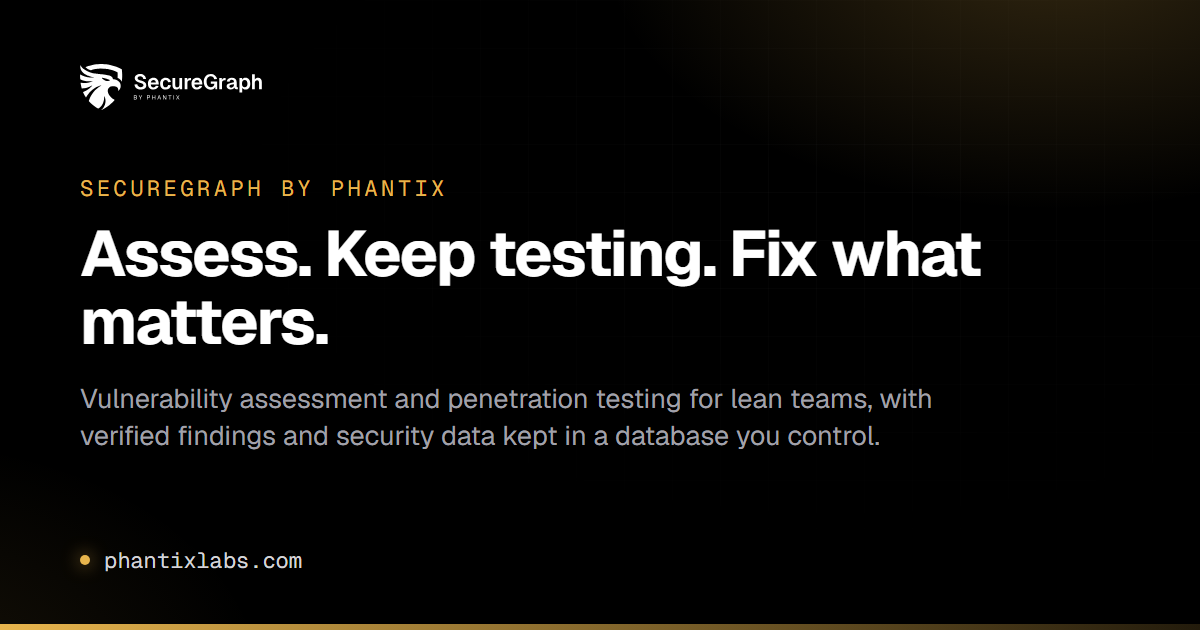
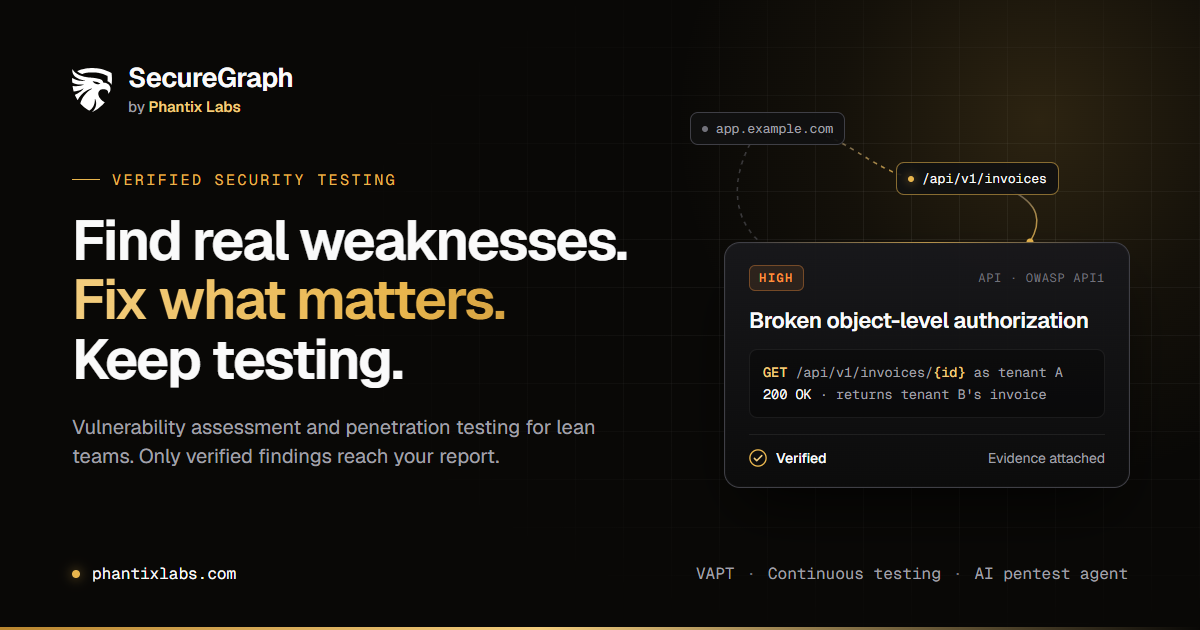
feat(brand): redesign the share card
The 1200x630 card still carried the old line ("Assess. Keep testing. Fix
what matters.") and no picture of the product. The new card leads with
the hero's three lines and the SecureGraph by Phantix Labs lockup, and
shows what the product hands over: a verified BOLA finding on an API
path, with the request and response that prove it, at the end of a
small attack path.

It is built from design/og/og-image.html with the site's Geist fonts and
dark-theme tokens, rendered by headless Chrome (command in the file), so
the next change is an edit and a re-render rather than a redraw.

og:image and twitter:image gain ?v=2 so LinkedIn, X and WhatsApp fetch
the new card instead of their cached copy; the alt text now describes it.

diff --git a/dist/index.html b/dist/index.html
@@ -49,15 +49,16 @@
     <meta property="og:url" content="https://phantixlabs.com/" />
     <meta property="og:title" content="SecureGraph: Assess. Keep testing. Fix what matters." />
     <meta property="og:description" content="Vulnerability assessment and penetration testing for lean teams. Get continuous security, verified findings, and remediation guidance. Your security data stays in a database you control." />
-    <meta property="og:image" content="https://phantixlabs.com/og-image.png" />
-    <meta property="og:image:alt" content="SecureGraph: Assess. Keep testing. Fix what matters." />
+    <meta property="og:image" content="https://phantixlabs.com/og-image.png?v=2" />
+    <meta property="og:image:alt" content="SecureGraph by Phantix Labs: Find real weaknesses. Fix what matters. Keep testing. A verified API finding with its evidence attached." />
     <meta property="og:locale" content="en_US" />
 
     <!-- Twitter -->
     <meta name="twitter:card" content="summary_large_image" />
     <meta name="twitter:title" content="SecureGraph: Assess. Keep testing. Fix what matters." />
     <meta name="twitter:description" content="Vulnerability assessment and penetration testing for lean teams. Get continuous security and verified findings." />
-    <meta name="twitter:image" content="https://phantixlabs.com/og-image.png" />
+    <meta name="twitter:image" content="https://phantixlabs.com/og-image.png?v=2" />
+    <meta name="twitter:image:alt" content="SecureGraph by Phantix Labs: Find real weaknesses. Fix what matters. Keep testing. A verified API finding with its evidence attached." />
 
     <!-- Structured data: organization + site + product -->
     <script type="application/ld+json">
@@ -144,7 +145,7 @@
          of type text/plain is neither fetched nor run. src/lib/pagesense.ts starts
          it on consent. It is in the page so PageSense can verify the snippet. -->
     <script type="text/plain" id="zoho-pagesense" data-consent="marketing" src="https://cdn.pagesense.io/js/942607551/d62bd6ac25c94fd6b41c27af8080279f.js"></script>
-    <script type="module" crossorigin src="/assets/index-BfUSoZTg.js"></script>
+    <script type="module" crossorigin src="/assets/index-DO4_rbJq.js"></script>
     <link rel="stylesheet" crossorigin href="/assets/index-mlEVPhA7.css">
     <script type="application/ld+json" id="faq-page-schema">{"@context":"https://schema.org","@type":"FAQPage","mainEntity":[{"@type":"Question","name":"What is SecureGraph?","acceptedAnswer":{"@type":"Answer","text":"SecureGraph helps small teams find real weaknesses, keep testing, and fix what matters. The front door is vulnerability assessment and penetration testing (VAPT). Growth adds continuous security, remediation guidance, and reports that use only verified findings. Asset inventory, risk, and optional compliance or SOC depth sit on the same platform. You get one subscription and you can leave modules off. Your security records live in a database you control. We never treat your production business systems as a playground. We never invent vulnerabilities. AI explains what the engines already found."}},{"@type":"Question","name":"Where does my security data live?","acceptedAnswer":{"@type":"Answer","text":"Security evidence lives in a dedicated PostgreSQL database that you provision and control. The evidence includes assets, tests, findings, and risks. You choose the host. SecureGraph connects to that store and writes into it. We do not park your vulnerability history in a shared multi-tenant lake next to another organization’s data. We do not read your ERP, CRM, or customer production data. On the platform side we keep what runs the organization: identity, roles, billing, and configuration. If you leave, you keep your security data. It was never ours to hold hostage."}},{"@type":"Question","name":"Is the Free plan really free?","acceptedAnswer":{"@type":"Answer","text":"Yes. You do not need a card, and there is no countdown trial. Free is the entry surface. Create your organization, use dual control and MFA, inventory assets within fair-use caps, run light hygiene checks, and export basic formats. You get a one-time 500 AI credits, then free open-source models if enabled. Full VAPT campaigns, continuous testing, deep cloud and SOC packs, and board PDF packages are on Starter and Growth. Free helps you know your surface before you spend. It does not replace a paid assessment plan."}},{"@type":"Question","name":"Do I need a demo before I can start?","acceptedAnswer":{"@type":"Answer","text":"No. Create a free account and use the product straight away. You do not need a call or a card. Book a demo if you want us to show how SecureGraph fits your environment, your team, or your procurement process. Larger organizations that need SSO, custom contracts, SLAs, or a private deployment can talk to sales from the Enterprise plan."}},{"@type":"Question","name":"How is this different from buying a scanner?","acceptedAnswer":{"@type":"Answer","text":"A scanner puts issues on your desk. You still need someone to retest, prioritize, fix, and explain them to leadership. SecureGraph starts with scoped VAPT. It verifies what is real, guides remediation, and can keep testing continuously on Growth. All of this occurs in one place. You can add compliance mapping and SOC depth when you need them. They are not the reason to buy. The other difference is ownership. Your security database stays yours."}},{"@type":"Question","name":"Will AI invent fake vulnerabilities?","acceptedAnswer":{"@type":"Answer","text":"No. Agents can only work with what the engines already stored. They help write findings, suggest fixes, and plan investigations. They do not create findings, change scores, or bypass dual control. Reports emphasize verified material. Unverified noise stays quarantined. Your board should only see what you can stand behind."}},{"@type":"Question","name":"Can we use this without a full security team?","acceptedAnswer":{"@type":"Answer","text":"Yes. SecureGraph is built for the one-person security team. This person is often the engineer or operations lead who also owns security. It inventories assets continuously, separates verified issues from noise, tracks fixes, and produces board-ready reports. You do not write them from scratch at midnight."}},{"@type":"Question","name":"Do you support Nigerian companies and NDPA?","acceptedAnswer":{"@type":"Answer","text":"Yes. Privacy is a foundation. Security data stays in infrastructure that you choose. AI paths prefer controlled models, and we audit all actions. We help you prepare evidence for privacy and security conversations. Formal certification such as ISO or SOC 2 remains your responsibility. We are the tool that helps you build the case. We are not the auditor."}},{"@type":"Question","name":"What if I need a full human penetration test?","acceptedAnswer":{"@type":"Answer","text":"Engagements put SecureGraph practitioners on the same platform that you use each day. They scope, run, and report inside your environment, so findings follow the same verification path as your internal assessments. Ask us about full VAPT, complex application testing, mobile dynamic testing, and guided board reporting."}},{"@type":"Question","name":"How do I get started?","acceptedAnswer":{"@type":"Answer","text":"Click Get started free, create your organization, and connect a security database. You can bring your own Postgres, or ask about hosted options when available. Add a small set of assets and run your first assessment on Free. Move to Starter when you need full VAPT and verified reports, and to Growth when you need continuous testing. You do not need a card to begin."}},{"@type":"Question","name":"Can I connect SecureGraph to GitHub CI/CD?","acceptedAnswer":{"@type":"Answer","text":"Yes. Install the GitHub App on the repositories you want reviewed, or connect GitLab or Gitea, and SecureGraph reviews pull requests and new commits as they arrive. Review runs against the changed files, so the findings land where your team already looks: the pull request. You can also report on a branch (Continuous PR) and, where it is switched on, have SecureGraph open a fix PR rather than a ticket. Provider webhooks and CI webhooks from other pipelines are supported too."}},{"@type":"Question","name":"Does a finding tell me which file and line the problem is on?","acceptedAnswer":{"@type":"Answer","text":"For code findings, yes. Each result carries the repository path, the line number and the rule that fired, so you can open the file at the exact place. Findings from network and web testing point at the asset and the request/response instead, because there is no source line to quote. The location is stored on the finding, so it survives into the report and into the ticket your team works from."}},{"@type":"Question","name":"Can it scan compiled binaries?","acceptedAnswer":{"@type":"Answer","text":"Not native binaries. SecureGraph does not decompile or fuzz ELF or PE executables today. It does analyse source code, dependencies and container image contents, mobile packages (.apk and .ipa) statically, and infrastructure-as-code. If what you ship is a binary, scan the source and the dependency manifest before the build — that is where the fixable issues are, and where a fix can actually be merged."}},{"@type":"Question","name":"Can I scan a repository that contains two or three languages?","acceptedAnswer":{"@type":"Answer","text":"Yes, and you do not configure it per language. SecureGraph works out which languages are present from the files it is given and runs the right analyser for each: Python with Bandit, Go with gosec, JavaScript and TypeScript with ESLint plus the general engine, PHP with PHPStan and Psalm when the project has Composer, C# and legacy .NET including .aspx with DevSkim, and OpenGrep across all of them. A monorepo is one scan, not three, and no file is analysed twice."}},{"@type":"Question","name":"Can I export a report as CSV or PDF?","acceptedAnswer":{"@type":"Answer","text":"Yes, both are built in. One report can be produced as PDF, DOCX, XLSX, HTML, Markdown, JSON or CSV from the same findings — no conversion step, and every plan includes the formats. You choose the format on the report itself."}}]}</script>
   </head>
@@ -155,7 +156,7 @@
     <p>SecureGraph does vulnerability assessment and penetration testing for lean teams. It keeps the tests on a schedule and helps you fix what matters and show the result. The findings you work from are verified. Your security data stays in a database you control.</p>
     <section><h2>Frequently asked questions</h2><h3>What is SecureGraph?</h3><p>SecureGraph helps small teams find real weaknesses, keep testing, and fix what matters.</p><p>The front door is vulnerability assessment and penetration testing (VAPT). Growth adds continuous security, remediation guidance, and reports that use only verified findings. Asset inventory, risk, and optional compliance or SOC depth sit on the same platform. You get one subscription and you can leave modules off.</p><p>Your security records live in a database you control. We never treat your production business systems as a playground. We never invent vulnerabilities. AI explains what the engines already found.</p><h3>Where does my security data live?</h3><p>Security evidence lives in a dedicated PostgreSQL database that you provision and control. The evidence includes assets, tests, findings, and risks. You choose the host. SecureGraph connects to that store and writes into it.</p><p>We do not park your vulnerability history in a shared multi-tenant lake next to another organization’s data. We do not read your ERP, CRM, or customer production data. On the platform side we keep what runs the organization: identity, roles, billing, and configuration.</p><p>If you leave, you keep your security data. It was never ours to hold hostage.</p><h3>Is the Free plan really free?</h3><p>Yes. You do not need a card, and there is no countdown trial.</p><p>Free is the entry surface. Create your organization, use dual control and MFA, inventory assets within fair-use caps, run light hygiene checks, and export basic formats. You get a one-time 500 AI credits, then free open-source models if enabled.</p><p>Full VAPT campaigns, continuous testing, deep cloud and SOC packs, and board PDF packages are on Starter and Growth. Free helps you know your surface before you spend. It does not replace a paid assessment plan.</p><h3>Do I need a demo before I can start?</h3><p>No. Create a free account and use the product straight away. You do not need a call or a card.</p><p>Book a demo if you want us to show how SecureGraph fits your environment, your team, or your procurement process. Larger organizations that need SSO, custom contracts, SLAs, or a private deployment can talk to sales from the Enterprise plan.</p><h3>How is this different from buying a scanner?</h3><p>A scanner puts issues on your desk. You still need someone to retest, prioritize, fix, and explain them to leadership.</p><p>SecureGraph starts with scoped VAPT. It verifies what is real, guides remediation, and can keep testing continuously on Growth. All of this occurs in one place. You can add compliance mapping and SOC depth when you need them. They are not the reason to buy.</p><p>The other difference is ownership. Your security database stays yours.</p><h3>Will AI invent fake vulnerabilities?</h3><p>No. Agents can only work with what the engines already stored. They help write findings, suggest fixes, and plan investigations. They do not create findings, change scores, or bypass dual control.</p><p>Reports emphasize verified material. Unverified noise stays quarantined. Your board should only see what you can stand behind.</p><h3>Can we use this without a full security team?</h3><p>Yes. SecureGraph is built for the one-person security team. This person is often the engineer or operations lead who also owns security.</p><p>It inventories assets continuously, separates verified issues from noise, tracks fixes, and produces board-ready reports. You do not write them from scratch at midnight.</p><h3>Do you support Nigerian companies and NDPA?</h3><p>Yes. Privacy is a foundation. Security data stays in infrastructure that you choose. AI paths prefer controlled models, and we audit all actions.</p><p>We help you prepare evidence for privacy and security conversations. Formal certification such as ISO or SOC 2 remains your responsibility. We are the tool that helps you build the case. We are not the auditor.</p><h3>What if I need a full human penetration test?</h3><p>Engagements put SecureGraph practitioners on the same platform that you use each day. They scope, run, and report inside your environment, so findings follow the same verification path as your internal assessments.</p><p>Ask us about full VAPT, complex application testing, mobile dynamic testing, and guided board reporting.</p><h3>How do I get started?</h3><p>Click Get started free, create your organization, and connect a security database. You can bring your own Postgres, or ask about hosted options when available.</p><p>Add a small set of assets and run your first assessment on Free. Move to Starter when you need full VAPT and verified reports, and to Growth when you need continuous testing. You do not need a card to begin.</p><h3>Can I connect SecureGraph to GitHub CI/CD?</h3><p>Yes. Install the GitHub App on the repositories you want reviewed, or connect GitLab or Gitea, and SecureGraph reviews pull requests and new commits as they arrive. Review runs against the changed files, so the findings land where your team already looks: the pull request. You can also report on a branch (Continuous PR) and, where it is switched on, have SecureGraph open a fix PR rather than a ticket. Provider webhooks and CI webhooks from other pipelines are supported too.</p><h3>Does a finding tell me which file and line the problem is on?</h3><p>For code findings, yes. Each result carries the repository path, the line number and the rule that fired, so you can open the file at the exact place. Findings from network and web testing point at the asset and the request/response instead, because there is no source line to quote. The location is stored on the finding, so it survives into the report and into the ticket your team works from.</p><h3>Can it scan compiled binaries?</h3><p>Not native binaries. SecureGraph does not decompile or fuzz ELF or PE executables today. It does analyse source code, dependencies and container image contents, mobile packages (.apk and .ipa) statically, and infrastructure-as-code. If what you ship is a binary, scan the source and the dependency manifest before the build — that is where the fixable issues are, and where a fix can actually be merged.</p><h3>Can I scan a repository that contains two or three languages?</h3><p>Yes, and you do not configure it per language. SecureGraph works out which languages are present from the files it is given and runs the right analyser for each: Python with Bandit, Go with gosec, JavaScript and TypeScript with ESLint plus the general engine, PHP with PHPStan and Psalm when the project has Composer, C# and legacy .NET including .aspx with DevSkim, and OpenGrep across all of them. A monorepo is one scan, not three, and no file is analysed twice.</p><h3>Can I export a report as CSV or PDF?</h3><p>Yes, both are built in. One report can be produced as PDF, DOCX, XLSX, HTML, Markdown, JSON or CSV from the same findings — no conversion step, and every plan includes the formats. You choose the format on the report itself.</p></section>
     <nav aria-label="SecureGraph"><ul><li><a href="/">SecureGraph home</a></li><li><a href="/pricing">Pricing</a></li><li><a href="/demo">Product tour</a></li><li><a href="/trust">Trust</a></li><li><a href="/company">Company</a></li><li><a href="/platform/autonomous-pentesting">Autonomous pentest agent</a></li><li><a href="/platform/web-applications">Web applications</a></li><li><a href="/platform/apis">APIs</a></li><li><a href="/platform/mobile">Mobile</a></li><li><a href="/platform/cloud">Cloud</a></li><li><a href="/solutions/business-leaders">For business leaders</a></li><li><a href="/solutions/security-teams">For security teams</a></li><li><a href="/solutions/developers">For developers</a></li><li><a href="/contact">Contact</a></li><li><a href="/ai-info">AI information</a></li><li><a href="/privacy">Privacy</a></li><li><a href="/terms">Terms</a></li><li><a href="/aup">Acceptable use</a></li><li><a href="/cookies">Cookies</a></li><li><a href="/securegraph/docs">Documentation</a></li></ul></nav>
-  </main></div>
+  </main></div>
       <script src="https://challenges.cloudflare.com/turnstile/v0/api.js?render=explicit" async defer></script>
   </body>
 </html>

diff --git a/design/og/og-image.html b/design/og/og-image.html
@@ -1,0 +1,208 @@
+<!doctype html>
+<!--
+  Source for public/og-image.png (1200x630), the share card for phantixlabs.com.
+  Render from the landing folder:
+    "C:/Program Files/Google/Chrome/Application/chrome.exe" --headless=new --hide-scrollbars \
+      --force-device-scale-factor=1 --window-size=1200,630 \
+      --screenshot=public/og-image.png design/og/og-image.html
+  Colours are the dark-theme tokens in src/index.css; fonts are the site's Geist.
+  The headline repeats the hero (components/Hero.tsx); change both together.
+-->
+<html lang="en">
+<head>
+<meta charset="utf-8" />
+<title>SecureGraph share card</title>
+<style>
+  @font-face { font-family: "Geist"; src: url("../../node_modules/@fontsource-variable/geist/files/geist-latin-wght-normal.woff2") format("woff2"); font-weight: 100 900; }
+  @font-face { font-family: "Geist Mono"; src: url("../../node_modules/@fontsource-variable/geist-mono/files/geist-mono-latin-wght-normal.woff2") format("woff2"); font-weight: 100 900; }
+
+  :root {
+    --canvas: rgb(9 8 6);
+    --card: rgb(16 16 16);
+    --line: rgb(63 63 70);
+    --line-soft: rgba(255 255 255 / 0.07);
+    --text: rgb(250 250 250);
+    --muted: rgb(161 161 170);
+    --faint: rgb(113 113 122);
+    --gold-300: rgb(243 205 126);
+    --gold-400: rgb(232 181 77);
+    --gold-600: rgb(185 134 47);
+    --high: rgb(251 146 60);
+    --ok: rgb(52 211 153);
+  }
+  * { box-sizing: border-box; margin: 0; padding: 0; }
+  html, body { width: 1200px; height: 630px; overflow: hidden; background: var(--canvas); }
+  body {
+    position: relative;
+    font-family: "Geist", system-ui, sans-serif;
+    color: var(--text);
+    -webkit-font-smoothing: antialiased;
+  }
+
+  /* Atmosphere: a faint grid that fades out, and one warm light behind the product. */
+  .grid {
+    position: absolute; inset: 0;
+    background-image:
+      linear-gradient(var(--line-soft) 1px, transparent 1px),
+      linear-gradient(90deg, var(--line-soft) 1px, transparent 1px);
+    background-size: 48px 48px;
+    background-position: -1px -1px;
+    -webkit-mask-image: radial-gradient(ellipse 70% 80% at 78% 45%, #000 0%, transparent 72%);
+            mask-image: radial-gradient(ellipse 70% 80% at 78% 45%, #000 0%, transparent 72%);
+  }
+  .glow {
+    position: absolute; width: 760px; height: 760px; right: -220px; top: -260px;
+    background: radial-gradient(circle, rgba(232 181 77 / 0.16) 0%, rgba(232 181 77 / 0.05) 38%, transparent 68%);
+  }
+  .rule {
+    position: absolute; left: 0; right: 0; bottom: 0; height: 3px;
+    background: linear-gradient(90deg, var(--gold-600) 0%, var(--gold-300) 45%, rgba(232 181 77 / 0) 100%);
+  }
+
+  /* ── Left column ─────────────────────────────────────────────── */
+  .brand { position: absolute; left: 72px; top: 64px; display: flex; align-items: center; gap: 16px; }
+  .brand img { width: 40px; height: auto; display: block; }
+  .brand .name { font-size: 27px; font-weight: 640; letter-spacing: -0.02em; line-height: 1; }
+  .brand .by { font-size: 15px; color: var(--muted); margin-top: 6px; letter-spacing: 0; font-weight: 450; }
+  .brand .by b { color: var(--gold-300); font-weight: 560; }
+
+  .copy { position: absolute; left: 72px; top: 170px; width: 600px; }
+  .eyebrow {
+    font-family: "Geist Mono", monospace; font-size: 15px; letter-spacing: 0.16em;
+    text-transform: uppercase; color: var(--gold-400); display: flex; align-items: center; gap: 12px;
+  }
+  .eyebrow::before { content: ""; width: 28px; height: 1px; background: var(--gold-400); }
+  h1 {
+    margin-top: 22px; font-size: 56px; line-height: 1.06; font-weight: 640; letter-spacing: -0.035em;
+  }
+  h1 span { display: block; white-space: nowrap; }
+  h1 .accent {
+    background: linear-gradient(92deg, var(--gold-300) 0%, var(--gold-400) 55%, var(--gold-600) 100%);
+    -webkit-background-clip: text; background-clip: text; color: transparent;
+  }
+  .sub { margin-top: 24px; font-size: 20px; line-height: 1.45; color: var(--muted); width: 540px; font-weight: 420; }
+
+  .foot {
+    position: absolute; left: 72px; right: 72px; bottom: 46px;
+    display: flex; justify-content: space-between; align-items: center;
+    font-family: "Geist Mono", monospace; font-size: 16px; color: var(--muted);
+  }
+  .foot .url { display: flex; align-items: center; gap: 12px; color: var(--text); }
+  .foot .url::before { content: ""; width: 8px; height: 8px; border-radius: 50%; background: var(--gold-400); box-shadow: 0 0 12px rgba(232 181 77 / 0.7); }
+  .foot .pillars span + span::before { content: "·"; margin: 0 12px; color: var(--faint); }
+
+  /* ── Right column: an attack path ending in a verified finding ── */
+  .stage { position: absolute; left: 690px; top: 92px; width: 440px; height: 420px; }
+  .stage svg.path { position: absolute; inset: 0; overflow: visible; }
+  .node {
+    position: absolute; font-family: "Geist Mono", monospace; font-size: 13px; color: var(--muted);
+    padding: 7px 11px; border: 1px solid var(--line); border-radius: 8px; background: rgba(16 16 16 / 0.92);
+    white-space: nowrap; display: flex; align-items: center; gap: 8px;
+  }
+  .node i { width: 6px; height: 6px; border-radius: 50%; background: var(--faint); display: block; }
+  .node.hot { color: var(--text); border-color: rgba(232 181 77 / 0.55); }
+  .node.hot i { background: var(--gold-400); box-shadow: 0 0 10px rgba(232 181 77 / 0.8); }
+
+  .finding {
+    position: absolute; left: 34px; top: 150px; width: 406px;
+    border: 1px solid var(--line); border-radius: 16px;
+    background: linear-gradient(180deg, rgba(24 24 27 / 0.98), rgba(12 12 12 / 0.98));
+    box-shadow: 0 30px 60px -20px rgba(0 0 0 / 0.8), 0 0 0 1px rgba(255 255 255 / 0.02) inset;
+    padding: 22px 24px 20px;
+  }
+  .finding::before {
+    content: ""; position: absolute; left: 24px; right: 24px; top: -1px; height: 1px;
+    background: linear-gradient(90deg, transparent, rgba(232 181 77 / 0.7), transparent);
+  }
+  .f-top { display: flex; justify-content: space-between; align-items: center; }
+  .sev {
+    font-family: "Geist Mono", monospace; font-size: 12px; letter-spacing: 0.12em; font-weight: 600;
+    color: var(--high); background: rgba(251 146 60 / 0.1); border: 1px solid rgba(251 146 60 / 0.35);
+    padding: 4px 9px; border-radius: 6px;
+  }
+  .kind { font-family: "Geist Mono", monospace; font-size: 12px; color: var(--faint); letter-spacing: 0.06em; }
+  .f-title { margin-top: 16px; font-size: 22px; font-weight: 600; letter-spacing: -0.015em; line-height: 1.25; }
+  .f-req {
+    margin-top: 14px; font-family: "Geist Mono", monospace; font-size: 13.5px; color: var(--muted);
+    border: 1px solid var(--line-soft); background: rgba(0 0 0 / 0.35); border-radius: 8px; padding: 11px 13px; line-height: 1.7;
+  }
+  .f-req b { color: var(--gold-300); font-weight: 500; }
+  .f-req .res { color: var(--text); }
+  .f-foot {
+    margin-top: 16px; padding-top: 14px; border-top: 1px solid var(--line-soft);
+    display: flex; align-items: center; justify-content: space-between; font-size: 14px; color: var(--muted);
+  }
+  .verified { display: flex; align-items: center; gap: 9px; color: var(--text); font-weight: 520; }
+  .verified svg { width: 18px; height: 18px; }
+</style>
+</head>
+<body>
+  <div class="glow"></div>
+  <div class="grid"></div>
+
+  <div class="brand">
+    <img src="../../public/mark-white.svg" alt="" />
+    <div>
+      <div class="name">SecureGraph</div>
+      <div class="by">by <b>Phantix Labs</b></div>
+    </div>
+  </div>
+
+  <div class="copy">
+    <div class="eyebrow">Verified security testing</div>
+    <h1>
+      <span>Find real weaknesses.</span>
+      <span class="accent">Fix what matters.</span>
+      <span>Keep testing.</span>
+    </h1>
+    <p class="sub">Vulnerability assessment and penetration testing for lean teams. Only verified findings reach your report.</p>
+  </div>
+
+  <div class="stage">
+    <!-- Edges from asset to endpoint to the finding card. -->
+    <svg class="path" viewBox="0 0 440 420" aria-hidden="true">
+      <defs>
+        <linearGradient id="edge" x1="0" y1="0" x2="1" y2="1">
+          <stop offset="0" stop-color="rgb(113 113 122)" stop-opacity="0.6" />
+          <stop offset="1" stop-color="rgb(232 181 77)" stop-opacity="0.9" />
+        </linearGradient>
+      </defs>
+      <path d="M92 36 C 150 36, 170 70, 214 84" fill="none" stroke="url(#edge)" stroke-width="1.5" stroke-dasharray="4 5" />
+      <path d="M320 98 C 350 112, 352 130, 340 150" fill="none" stroke="url(#edge)" stroke-width="1.5" />
+      <path d="M60 52 C 40 90, 44 128, 70 150" fill="none" stroke="rgb(113 113 122)" stroke-opacity="0.45" stroke-width="1.5" stroke-dasharray="4 5" />
+      <circle cx="340" cy="150" r="3.5" fill="rgb(232 181 77)" />
+    </svg>
+    <div class="node" style="left:0; top:20px"><i></i>app.example.com</div>
+    <div class="node hot" style="left:206px; top:70px"><i></i>/api/v1/invoices</div>
+
+    <div class="finding">
+      <div class="f-top">
+        <span class="sev">HIGH</span>
+        <span class="kind">API · OWASP API1</span>
+      </div>
+      <div class="f-title">Broken object-level authorization</div>
+      <div class="f-req">
+        <b>GET</b> /api/v1/invoices/<b>{id}</b> as tenant&nbsp;A<br />
+        <span class="res">200 OK</span> · returns tenant B's invoice
+      </div>
+      <div class="f-foot">
+        <span class="verified">
+          <svg viewBox="0 0 20 20" fill="none" aria-hidden="true">
+            <circle cx="10" cy="10" r="9" stroke="rgb(232 181 77)" stroke-width="1.5" />
+            <path d="M6 10.4l2.6 2.6L14.2 7.4" stroke="rgb(243 205 126)" stroke-width="1.7" stroke-linecap="round" stroke-linejoin="round" />
+          </svg>
+          Verified
+        </span>
+        <span>Evidence attached</span>
+      </div>
+    </div>
+  </div>
+
+  <div class="foot">
+    <span class="url">phantixlabs.com</span>
+    <span class="pillars"><span>VAPT</span><span>Continuous testing</span><span>AI pentest agent</span></span>
+  </div>
+
+  <div class="rule"></div>
+</body>
+</html>

diff --git a/index.html b/index.html
@@ -49,15 +49,16 @@
     <meta property="og:url" content="https://phantixlabs.com/" />
     <meta property="og:title" content="SecureGraph: Assess. Keep testing. Fix what matters." />
     <meta property="og:description" content="Vulnerability assessment and penetration testing for lean teams. Get continuous security, verified findings, and remediation guidance. Your security data stays in a database you control." />
-    <meta property="og:image" content="https://phantixlabs.com/og-image.png" />
-    <meta property="og:image:alt" content="SecureGraph: Assess. Keep testing. Fix what matters." />
+    <meta property="og:image" content="https://phantixlabs.com/og-image.png?v=2" />
+    <meta property="og:image:alt" content="SecureGraph by Phantix Labs: Find real weaknesses. Fix what matters. Keep testing. A verified API finding with its evidence attached." />
     <meta property="og:locale" content="en_US" />
 
     <!-- Twitter -->
     <meta name="twitter:card" content="summary_large_image" />
     <meta name="twitter:title" content="SecureGraph: Assess. Keep testing. Fix what matters." />
     <meta name="twitter:description" content="Vulnerability assessment and penetration testing for lean teams. Get continuous security and verified findings." />
-    <meta name="twitter:image" content="https://phantixlabs.com/og-image.png" />
+    <meta name="twitter:image" content="https://phantixlabs.com/og-image.png?v=2" />
+    <meta name="twitter:image:alt" content="SecureGraph by Phantix Labs: Find real weaknesses. Fix what matters. Keep testing. A verified API finding with its evidence attached." />
 
     <!-- Structured data: organization + site + product -->
     <script type="application/ld+json">
